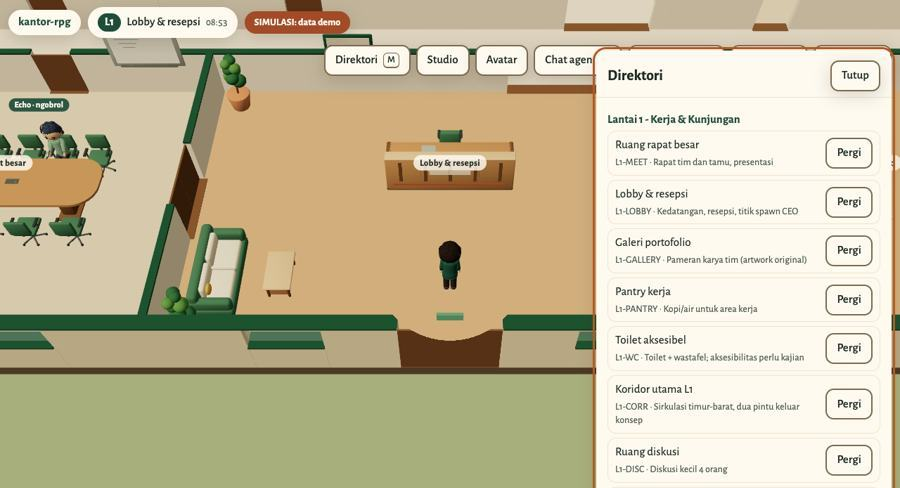
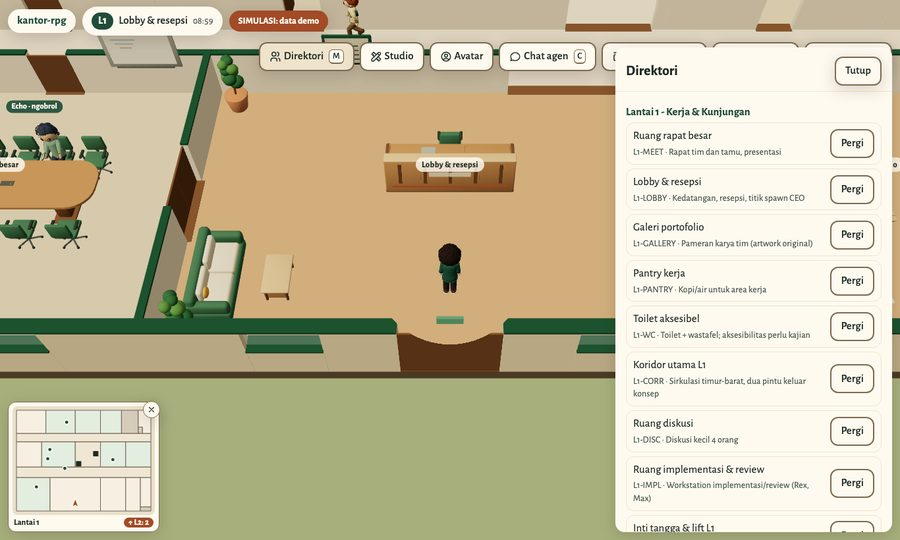
docs: screenshot tampilan baru (HUD ikon, lipat menu & minimap, pilihan Bahasa) di README dan FITUR

diff --git a/docs/FEATURES.md b/docs/FEATURES.md
@@ -90,13 +90,14 @@ Press **H** or the **Kontrol** (Controls) button to see this list inside the app
 
 **On phones and tablets**
 
-<img src="img/hp.jpg" alt="Phone view" width="260">
+<img src="img/hp.jpg" alt="Phone view with the menu and minimap open" width="220"> <img src="img/hp-lipat.jpg" alt="Phone view with the menu and minimap folded" width="220">
 
 - The joystick at the bottom left is for walking. Pushing the joystick to the edge makes the avatar run.
 - The **Lari** (Run) button turns running on or off.
 - The **Aksi** (Action) button is the same as E.
 - Drag the right side of the screen to rotate the camera.
-- The top menu is laid out in a grid so all buttons fit on narrow screens.
+- The top menu is one row of icons (two rows on screens narrower than 356 px). Screen readers still read each button name.
+- The **☰** button next to the room name folds or opens the menu. The **✕** button on the minimap corner folds it into a map icon. The fold choice survives a page reload.
 
 The avatar cannot pass through walls, furniture, or NPCs. If the avatar's position becomes invalid (for example after furniture is moved), the avatar is returned to the nearest safe point.
 
@@ -154,9 +155,9 @@ If the browser does not support WebGL, the directory becomes the main view. The 
 
 Finding one person in a two-floor building does not require walking around.
 
-The **minimap** is always in the bottom left corner (on phones: top right, below the HUD, so it does not collide with the joystick).
+The **minimap** sits in the bottom left corner (on phones: top right, below the HUD, so it does not collide with the joystick).
 
-On a phone, the top menu is a single row of icons. The ☰ button next to the room name folds the menu, and the ✕ button on the minimap corner folds the minimap into a map icon. The fold choice survives a page reload.
+The ✕ button on the minimap corner folds the minimap into a map icon. The fold choice survives a page reload.
 
 <img src="img/minimap.jpg" alt="Minimap: Floor 1 plan, avatar arrow, persona dots, badge showing one person on Floor 2" width="260">
 

diff --git a/docs/FITUR.md b/docs/FITUR.md
@@ -90,13 +90,14 @@ Tekan **H** atau tombol **Kontrol** untuk melihat daftar ini di dalam app.
 
 **Di HP dan tablet**
 
-<img src="img/hp.jpg" alt="Tampilan HP" width="260">
+<img src="img/hp.jpg" alt="Tampilan HP dengan menu dan minimap terbuka" width="220"> <img src="img/hp-lipat.jpg" alt="Tampilan HP dengan menu dan minimap dilipat" width="220">
 
 - Joystick di kiri bawah untuk berjalan. Mendorong joystick sampai tepi membuat avatar berlari.
 - Tombol **Lari** menyalakan atau mematikan lari.
 - Tombol **Aksi** sama dengan E.
 - Seret sisi kanan layar untuk memutar kamera.
-- Menu atas tersusun dalam grid agar semua tombol muat di layar sempit.
+- Menu atas berupa satu baris ikon (dua baris di layar di bawah 356 px). Nama tombol tetap dibacakan pembaca layar.
+- Tombol **☰** di samping nama ruangan melipat atau membuka menu. Tombol **✕** di pojok minimap melipatnya menjadi ikon peta. Pilihan lipat tersimpan setelah halaman dimuat ulang.
 
 Avatar tidak bisa menembus dinding, perabot, atau NPC. Bila posisi avatar tidak valid (misalnya setelah perabot dipindah), avatar dikembalikan ke titik aman terdekat.
 
@@ -154,9 +155,9 @@ Bila browser tidak mendukung WebGL, direktori menjadi tampilan utama. Tombol **P
 
 Mencari satu orang di gedung dua lantai tidak perlu berkeliling.
 
-**Minimap** selalu ada di pojok kiri bawah (di HP: kanan atas, di bawah HUD, supaya tidak menabrak joystick).
+**Minimap** ada di pojok kiri bawah (di HP: kanan atas, di bawah HUD, supaya tidak menabrak joystick).
 
-Di HP, menu atas tampil sebagai satu baris ikon. Tombol ☰ di samping nama ruangan melipat menu, dan tombol ✕ di pojok minimap melipat minimap menjadi ikon peta. Pilihan lipat tersimpan setelah halaman dimuat ulang.
+Tombol ✕ di pojok minimap melipat minimap menjadi ikon peta. Pilihan lipat tersimpan setelah halaman dimuat ulang.
 
 <img src="img/minimap.jpg" alt="Minimap: denah Lantai 1, panah avatar, titik persona, lencana satu orang di Lantai 2" width="260">
 

diff --git a/README.en.md b/README.en.md
@@ -125,10 +125,10 @@ Chat and the work board are only active for the owner, who logs in with a passwo
 
 ## Play anywhere
 
-<img src="docs/img/hp.jpg" alt="Phone view with joystick and action buttons" width="240" align="right">
+<img src="docs/img/hp.jpg" alt="Phone view: one row of menu icons, minimap at the top right, joystick and action buttons" width="180" align="right"> <img src="docs/img/hp-lipat.jpg" alt="Phone view with the menu and minimap folded" width="180" align="right">
 
 - **Desktop.** WASD or arrow keys to walk, Shift to run, Q/Z to rotate the camera, R to straighten the camera, +/- to zoom, E to interact, H for help.
-- **Phone and tablet.** Joystick at the bottom left, Run and Action buttons, drag the screen to rotate the camera. The top menu becomes a grid on narrow screens.
+- **Phone and tablet.** Joystick at the bottom left, Run and Action buttons, drag the screen to rotate the camera. On a phone the top menu is one row of icons. The ☰ button folds the menu, the ✕ button on its corner folds the minimap, and the choice is remembered.
 - **Two languages.** The interface is in Indonesian and English and follows the browser language. Switch in Settings or with `?lang=en`.
 - **No WebGL.** The app switches to a directory mode that still shows the rooms and characters.
 - **Accessibility.** Light and dark themes, reduced motion mode, a light graphics quality for older devices, screen reader labels, and every dialog works with the keyboard. Color contrast is checked automatically, and pages are tested with axe.

diff --git a/README.md b/README.md
@@ -123,10 +123,10 @@ Chat dan papan kerja hanya aktif untuk pemilik yang login dengan sandi dan kode 
 
 ## Main di mana saja
 
-<img src="docs/img/hp.jpg" alt="Tampilan HP dengan joystick dan tombol aksi" width="240" align="right">
+<img src="docs/img/hp.jpg" alt="Tampilan HP: menu ikon satu baris, minimap di kanan atas, joystick dan tombol aksi" width="180" align="right"> <img src="docs/img/hp-lipat.jpg" alt="Tampilan HP dengan menu dan minimap dilipat" width="180" align="right">
 
 - **Desktop.** WASD atau panah untuk berjalan, Shift lari, Q/Z putar kamera, R luruskan kamera, +/- zoom, E interaksi, H bantuan.
-- **HP dan tablet.** Joystick di kiri bawah, tombol Lari dan Aksi, seret layar untuk memutar kamera. Menu atas tersusun dalam grid di layar sempit.
+- **HP dan tablet.** Joystick di kiri bawah, tombol Lari dan Aksi, seret layar untuk memutar kamera. Di HP, menu atas berupa satu baris ikon. Menu bisa dilipat lewat tombol ☰, minimap lewat tombol ✕ di pojoknya, dan pilihan itu tersimpan.
 - **Dua bahasa.** Tampilan tersedia dalam Bahasa Indonesia dan English, mengikuti bahasa browser. Bisa diganti di Pengaturan atau lewat `?lang=en`.
 - **Tanpa WebGL.** App berpindah ke mode direktori yang tetap menampilkan ruang dan karakter.
 - **Aksesibilitas.** Tema terang dan gelap, mode kurangi gerak, kualitas grafis ringan untuk perangkat lama, label pembaca layar, dan semua dialog bisa dipakai dengan keyboard. Kontras warna diperiksa otomatis, dan halaman diuji dengan axe.
